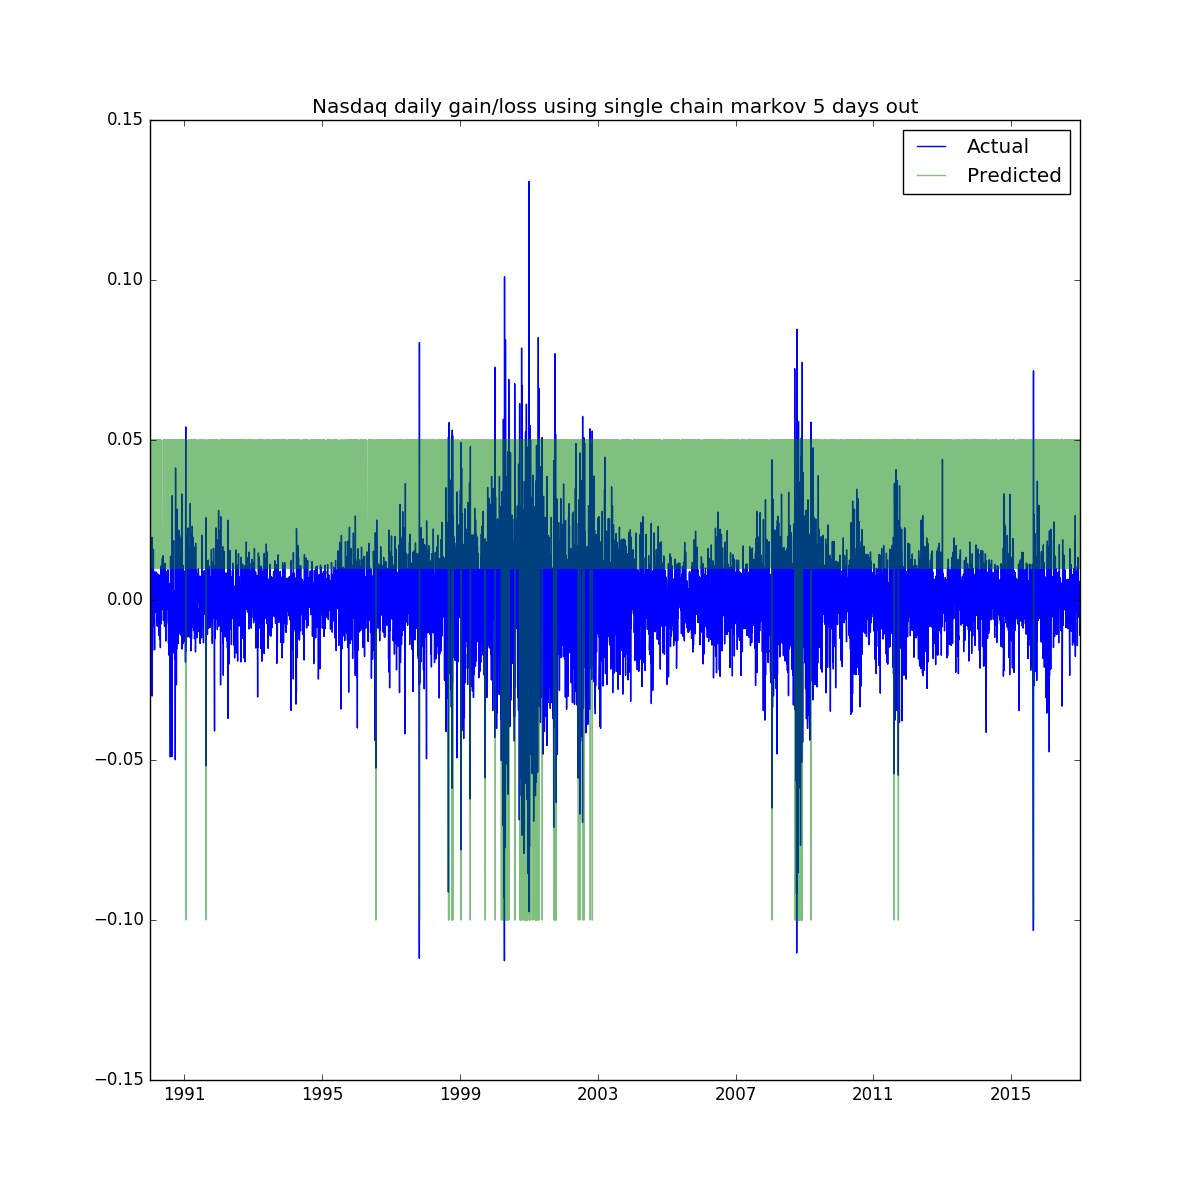
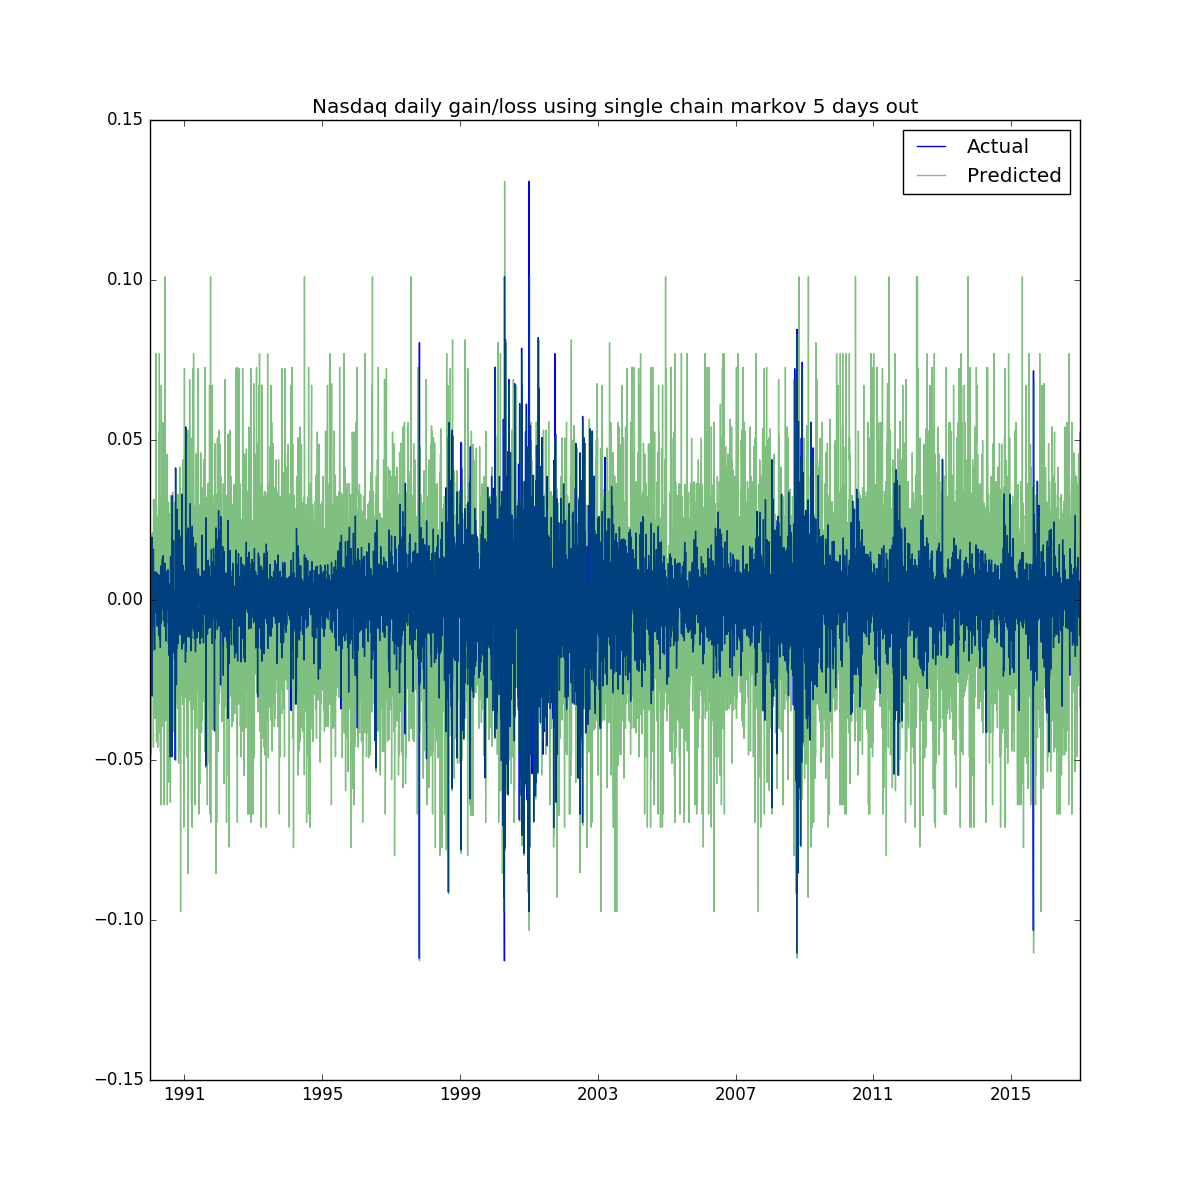
simplified code, made it easier to use finer bins on single markov chains, still not a great prediction, but better

Changed region(s): [[0.1233, 0.4625, 0.925, 0.7708], [0.1233, 0.2467, 0.8942, 0.4317]]

diff --git a/Stocks_HMM.py b/Stocks_HMM.py
@@ -33,136 +33,50 @@ data['returns'] = (data['NASDAQ'] - data['NASDAQ'].shift(1)) / data['NASDAQ']
 # remove nan row from target creation
 data = data.dropna()
 
-'''
-############################################################################
-# plot returns on NASDAQ training data
-#############################################################################
-
-fig = plt.figure(figsize=(10,10))
-plt.subplot(2,1,2)
-
-
-plt.subplot(2,1,1)
-plt.plot(data['returns'])
-plt.title("Nasdaq daily returns")
-
-
-# histogram of returns
-plt.subplot(2,1,2)
-plt.hist(data['returns'], bins=200)
-plt.xlabel("Returns")
-plt.ylabel("Probability")
-plt.title("Histogram daily Nasdaq returns")
-plt.grid(True)
-
-# median
-median_return = data['returns'].median()
-l = plt.axvspan(median_return-0.0001, median_return+0.0001, color='red')
-
-plt.show()
-'''
-#########################################################################
-# split into bear and bull markets
-##########################################################################
-
-bull1_start = pd.to_datetime('01-01-1990')       # beginning of this dataset
-bull1_end = pd.to_datetime('07-16-1990')
-
-iraq_bear_start = pd.to_datetime('07-17-1990')
-iraq_bear_end = pd.to_datetime('10-11-1990')
-
-bull2_start = pd.to_datetime('10-12-1990')
-bull2_end = pd.to_datetime('01-13-2000')
-
-dotcom_bear_start = pd.to_datetime('01-14-2000')
-dotcom_bear_end = pd.to_datetime('10-09-2002')
-
-bull3_start = pd.to_datetime('10-10-2002')
-bull3_end = pd.to_datetime('10-08-2007')
-
-housing_bear_start = pd.to_datetime('10-09-2007')
-housing_bear_end = pd.to_datetime('03-09-2009')
-
-bull4_start = pd.to_datetime('03-10-2009')
-bull4_end = pd.to_datetime('12-31-2016')    # end of this dataset
-
-
-
-bull1 = data.loc[data.index <= bull1_end]
-bear1 = data.loc[(data.index >= iraq_bear_start) & (data.index <= iraq_bear_end)]
-bull2 = data.loc[(data.index >= bull2_start) & (data.index <= bull2_end)]
-bear2 = data.loc[(data.index >= dotcom_bear_start) & (data.index <= dotcom_bear_end)]
-bull3 = data.loc[(data.index >= bull3_start) & (data.index <= bull3_end)]
-bear3 = data.loc[(data.index >= housing_bear_start) & (data.index <= housing_bear_end)]
-bull4 = data.loc[data.index >= bull4_start]
-
 
 ###################################################################
 # Simple markov chain
 ###################################################################
-# probabilities of high/low gains, high/low losses per day
-states = ['HighGain', 'LowGain', 'LowLoss', 'HighLoss']
 
-# divide gains into highGain, lowGain, lowLoss, highLoss
-def sectionReturns(r):
-    if r > 0.05: return 4
-    elif r > 0.00: return 3
-    elif r > -0.05: return 2
-    else: return 1
+# first pass only used 4 bins ( highGain, lowGain, lowLoss, highLoss )
+# looks to be ~0.13, -.112, ~.25 diff between highest and lowest
 
-data['gainLoss'] = data['returns'].apply(sectionReturns)
+# divide returns into bins
+# round(2) gives 22 unique bins
+# round(3) gives 157 bins
+# round(4) gives 848 bins
+round_values = 4
+data['gainLoss'] = data['returns'].round(round_values)
+
 total_samples = len(data)
-
-counts = data.groupby(['gainLoss']).count()
-counts = counts['NASDAQ']
-
-# probability of each return on a random day
-probability = np.array([0., 0., 0., 0.])
-probability[0] = counts[1] / total_samples        # dataframe, not array start with 1
-probability[1] = counts[2] / total_samples
-probability[2] = counts[3] / total_samples
-probability[3] = counts[4] / total_samples
+n_bins = data['gainLoss'].nunique()
+value_count = data['gainLoss'].value_counts()
+value_count = value_count.sort_index()
+b = value_count.index.tolist()
+bins = ['%.4f' % z for z in b]          # match to round value
 
 
-# probabilities of changing from one state to the next tomorrow
-# transition maxtrix going from previous day's state to next on a given day
-# hg-hg, hg-lg, hg-ll, hg-hl
-# lg-hg, lg-lg, lg-ll, lg-hl
-# ll-hg, ll-lg, ll-ll, ll-hl
-# hl-hg, hl-lg, hl-ll, hl-hl
-transitions = np.zeros((4, 4))
+#print(value_count)
 
-def transition(current_return, previous_return):
+# calculate probability of a return value on a random day
+probability = value_count / total_samples
+#print(probability)
 
-    if current_return > 0.05: 
-        if previous_return > 0.05:      transitions[0][0] += 1
-        elif previous_return > 0.00:    transitions[0][1] += 1
-        elif previous_return > -0.05:   transitions[0][2] += 1
-        else:                           transitions[0][3] += 1
 
-    elif current_return > 0.00:         
-        if previous_return > 0.05:      transitions[1][0] += 1
-        elif previous_return > 0.00:    transitions[1][1] += 1
-        elif previous_return > -0.05:   transitions[1][2] += 1
-        else:                           transitions[1][3] += 1
-    elif current_return > -0.05: 
-        if previous_return > 0.05:      transitions[2][0] += 1
-        elif previous_return > 0.00:    transitions[2][1] += 1
-        elif previous_return > -0.05:   transitions[2][2] += 1
-        else:                           transitions[2][3] += 1
-    else: 
-        if previous_return > 0.05:      transitions[3][0] += 1
-        elif previous_return > 0.00:    transitions[3][1] += 1
-        elif previous_return > -0.05:   transitions[3][2] += 1
-        else:                           transitions[3][3] += 1
+# built transition matrix
+transitions = np.zeros((n_bins, n_bins))
+def map_transition(this_return, previous_return):
+    current =  np.where(probability.index==this_return)[0] - 1      # pandas starts at 1, numpy starts at zero
+    previous = np.where(probability.index==previous_return)[0] - 1
+    transitions[current, previous] += 1
 
 
 total_transitions = 0
 for i in range(len(data)-1):
     total_transitions += 1
-    previous = data.iloc[i]['returns']
-    current = data.iloc[i+1]['returns']
-    transition(current, previous)
+    previous = data.iloc[i]['gainLoss']
+    current = data.iloc[i+1]['gainLoss']
+    map_transition(current, previous)
 
 # normalize matrix, then normalize rows
 transitions /= total_transitions
@@ -173,13 +87,16 @@ transitions /= transitions.sum(axis=0)
 # n number of days into future
 # s today's state hg, lg, ll, hl
 # t transition matrix that was calculated
-s = 1
+s = -.03     # today's gain or loss --- be sure it is a valid bin
 n = 5
 t = transitions
-prediction_probability = (t **n)
+prediction_probabilities = (t **n)
+row_number = np.where(probability.index==s)[0] - 1      # pandas starts at 1, numpy starts at zero
+probabilities = prediction_probabilities[row_number]
+mostlikely = probabilities.argmax()
+bin_value = float(bins[mostlikely]) 
 
-
-print("%d days from now, the market return will be %s" % (n, states[prediction_probability[s].argmax()]))
+print("%d days from now, the market return will be %.2f" % (n, bin_value))
 
 
 ######################################################################################
@@ -187,21 +104,21 @@ print("%d days from now, the market return will be %s" % (n, states[prediction_p
 
 # scale prediction for plotting
 def convert_return_for_plot(r):
-    if r == 0: return 0.1 * 0.1
-    if r == 1: return 0.5 * 0.1
-    if r == 2: return -0.5 * 0.1
-    if r == 3: return -1. * 0.1
-
+    return bins[r]
 
 days_ahead = 5
 p = []
 
+
 for i in range(len(data)-1):
-    s = int(data.iloc[i]['gainLoss']) - 1
-    prediction_probability = (transitions **days_ahead)        # predict all states at future data
-    prediction = prediction_probability[s].argmax()            # get states with today's starting condition
-    scaled_return = convert_return_for_plot(prediction)
-    p.append(scaled_return)                                       # 1 hg, 2, lg, 3, ll, 4 hl      
+    s = data.iloc[i]['gainLoss']                        # get current day return from market
+    prediction_probabilities = (transitions **n)                          # predict all probabilities for future date
+    row_number = np.where(probability.index==s)[0] - 1          # get row number matching today's return
+    probabilities = prediction_probabilities[row_number]
+    mostlikely = probabilities.argmax()
+    bin_value = bins[mostlikely]
+    p.append(bin_value)
+
 
 # pad begining of p 
 p = ([0] * 1 + p)
@@ -214,3 +131,4 @@ plt.plot(data['predicted'], label='Predicted', alpha=0.5)
 plt.legend(loc='best')
 plt.savefig("SingleChainMarkov.png")
 plt.show()
+
